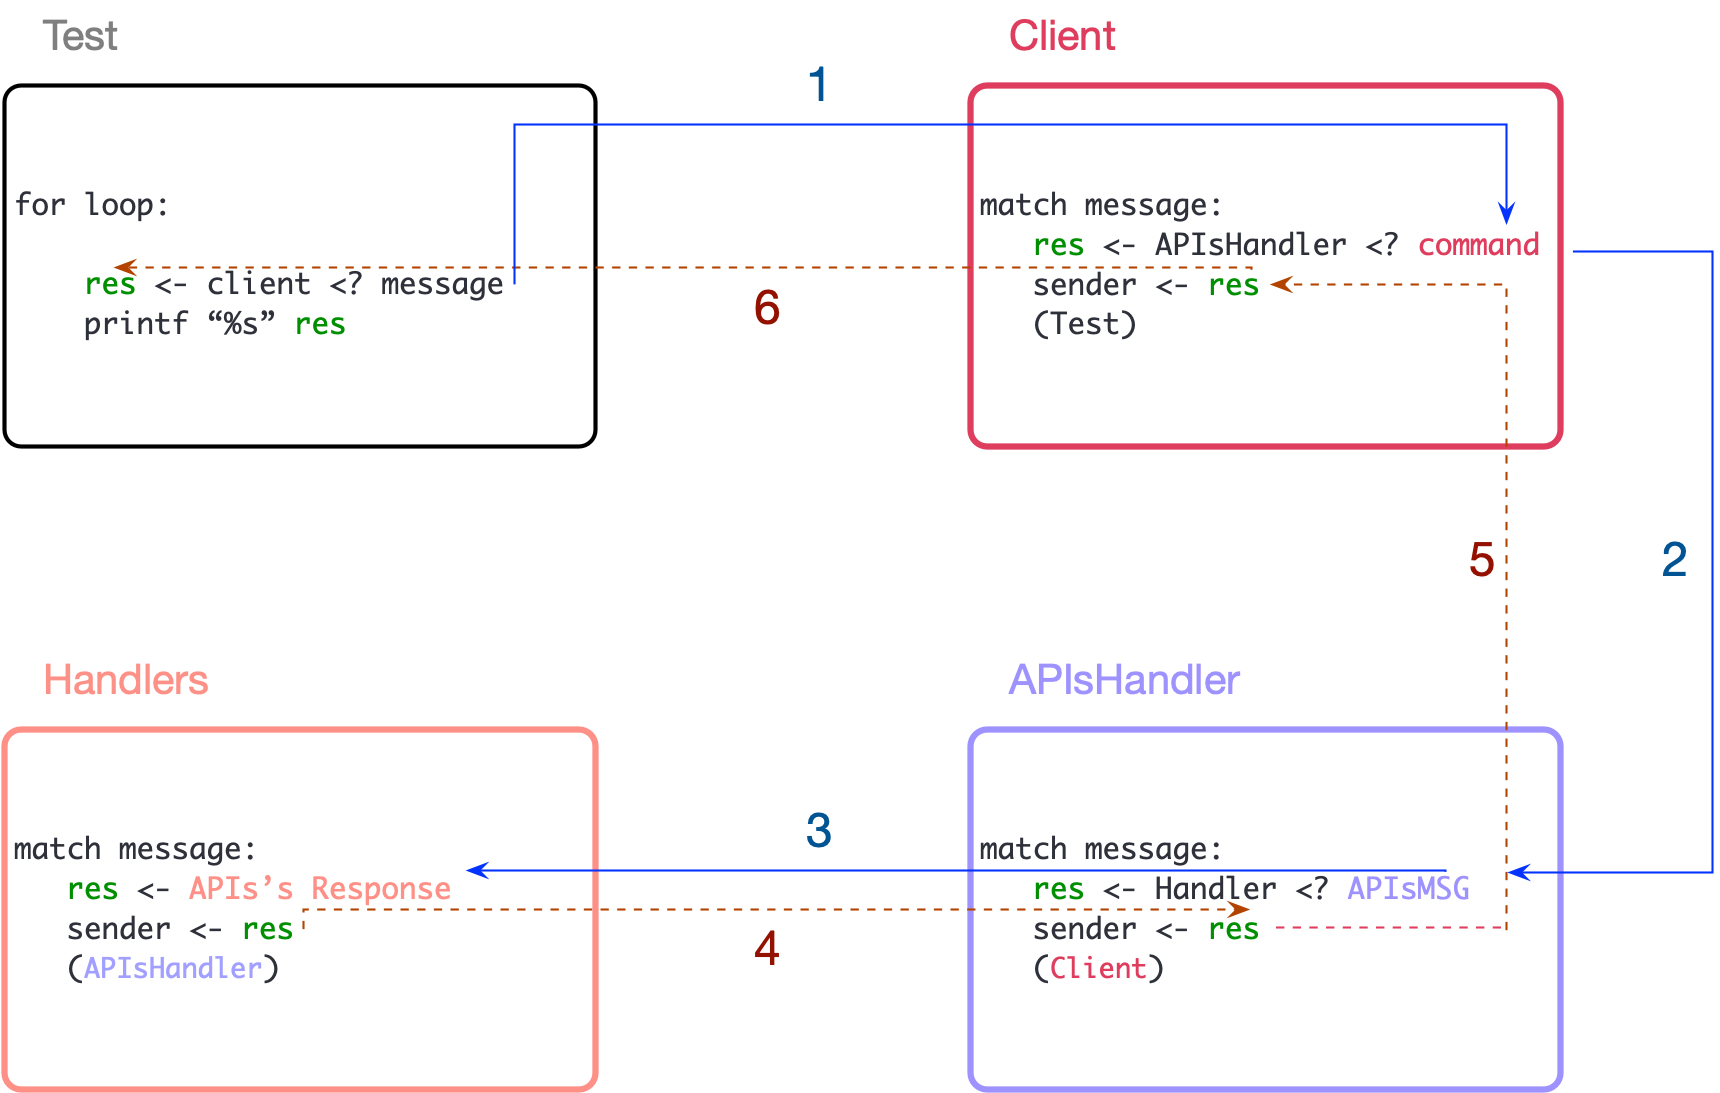
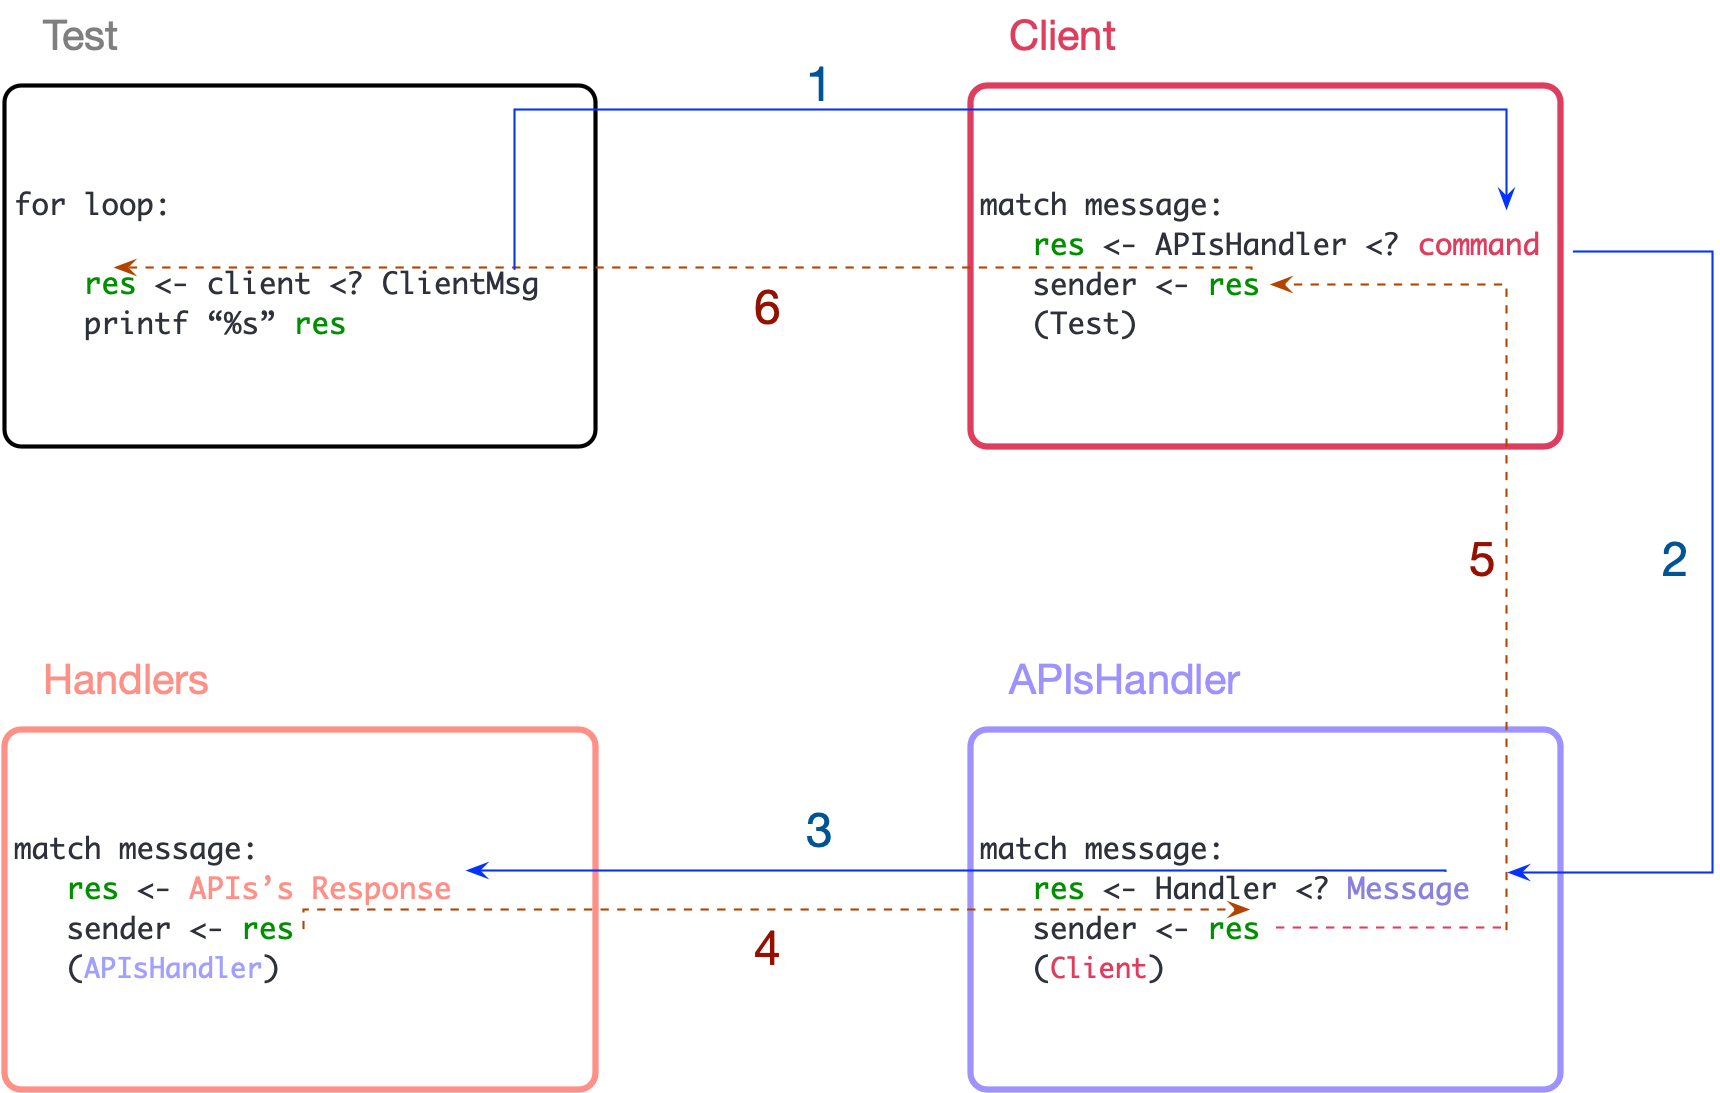
Update report

Changed region(s): [[0.3081, 0.0933, 0.8628, 0.1244], [0.7703, 0.7777, 0.8628, 0.8399], [0.2157, 0.2489, 0.3081, 0.28]]

diff --git a/Project4.1/README.md b/Project4.1/README.md
@@ -5,7 +5,7 @@ Twitter clone using F#.
 - Zhang Dong, UFID: 69633983
 - Xiaobai Li, UFID: 31567109
 
-## Functionality
+# Functionality
 
 In this project, a Twitter Enginee Clone with support to following functionality was designed:
 - Register account and Authenticatios
@@ -20,11 +20,17 @@ Also a tester/simulator to test the above was implemented with support to:
 - Simulate periods of live connection and disconnection for users
 - Simulate a Zipf distribution on the number of subscribers
 
-## Implementation
+# Implementation
 
 The infrastructure of Twitter Enginee is as following:
 
 ![](https://github.com/zdong1995/DOSP5615/blob/twitter/Project4.1/img/Infra.jpg)
+
+## Server Infrastrcuture
+
+For the server side, we use Actor as distributed microservice for different module and use a singleton `Simulator` to realize the business logic. There will be one actor `APIsHandler` as the gateway to communicate with clients, the received message will be distributed to each microservice actor `FunctionHandler` based on message type. Each `FunctionHandler` will invoke the APIs of `Simulator` and process the bussiness logic to modify the database table. Then the response will be parsed from API response to `FunctionHandler`, then `APIsHandler`, finally reached back to client.
+
+There are four class elaborately designed in server side, which are `User`, `Tweet`, `Message` and `Simulator`. Object-Oriented Design with encapsulation has been fullfilled to design the class.
 
 ### Database Management
 
@@ -35,14 +41,7 @@ To simplify the simulator, we use 4 HashTable to store the data to simulate data
 - tagtTable: `<tag, Tweet List>`
 - mentionTable: `<mentionedUser, Tweet List>`
 
-### Server Infrastrcuture
-
-For the server side, we use Actor as distributed microservice for different module and use a singleton `Simulator` to realize the business logic. There will be one actor `APIsHandler` as the gateway to communicate with clients, the received message will be distributed to each microservice actor `FunctionHandler` based on message type. Each `FunctionHandler` will invoke the APIs of `Simulator` and process the bussiness logic to modify the database table. Then the response will be parsed from API response to `FunctionHandler`, then `APIsHandler`, finally reached back to client.
-
-There are four class elaborately designed in server side, which are `User`, `Tweet`, `Message` and `Simulator`. Object-Oriented Design with encapsulation has been fullfilled to design the class.
-
 ### Class
-
 #### User
 Fields:
 - username: `string`
@@ -93,14 +92,87 @@ Remote acotrs was used to implement microservice-like handlers:
 
 The message from client to `APIsHandler` will be `string`, and the message between `Handler`s are `Message` type.
 
-## Usage
+## Client Infrastructure
 
-The command message from client should be in the following format:
+For client side, we use remote actor `Client` actor to simulate user of Twitter enginee. The client actor will be initialized as the number we defined and use for loop to simulate the function call. The Remote Procedure Call (RPC) is showed as following:
+
+![](https://github.com/zdong1995/DOSP5615/blob/master/Project4.1/img/Workflow.jpg)
+
+1. In the for loop, for one specific User with `userId`, `password` and wished operation, we will send corresponding `Client` actor a message with `ClientMsg` type to wrap the request message.
+
+2. After the `Client` actor received message, it will match message and build `command` string to send to `APIsHandler` on server side.
+
+3. After the `APIsHandler` actor received message, it will match message and build `Message` type to wrap the request body, then distribute the message to corresponding `Handler`.
+
+4. The `Handler` will decode the `Message` received and then invoke the API call of `Simulator` to manipulate the datatables. After the process is done, the API will send back the response `res` string to `Handler`, which will be sent back to the sender, `APIsHandler`.
+
+5. The `APIsHandler` will pass the response to its sender, i.e. `Client`.
+
+6. The `Client` will send back the response to the original sender, the Test code invoked place.
+
+Then we can validate the response with expected result. All RPC are handled as asynchronous communication. For the automatic query for Tweets Live View of user, we utilized the "pull" model to retrive the tweet list of all the people they followed. Once the user login, the `Client` actor will auto-query the tweet lists in defined time frequency.
+
+# Usage
+
+## APIsHandler
+
+With the encasulations, the server only provide `APIsHandler` interface to expose to communicate with `Client`. The input for `APIsHanlder` will be `string` command containing 4 `|` separator in the following format:
+
 ```
-operation|username|password|arg1|arg2
+<operation>|<username>|<password>|<arg1>|<arg2>
 ```
 
-The value of `arg1` and `arg2` will depend on the operations we want, which is showed in the following example:
+The value of `arg1` and `arg2` will depend on the operations we want. Some example of the command:
+
+- Register: `Register|user1|pw1||`
+- Login: `Login|user1|pw1||`
+- Tweet: `Tweet|user1|pw1|#dosp Twitter Clone! @user2 |`
+- ReTweet: `ReTweet|user2|pw2|#uf Go Gators! @user3 |user1`
+- Query:
+  - Query of User's Subscribing List: `Query|user1|||`
+  - Query of Specific Hashtag: `Tag|#dosp|||`
+  - Query for "Mentioned Me`: `Mention|user1|||`
+
+Multiple hashtags and mentions will automatically extracted from the tweet content. But space after the hashtag `#dosp ` and mention `@user ` will be needed to be auto-parsed.
+
+The success response for the APIs is as following:
+- Register: `<username> Registered successfully`
+- Login: `true`
+- Tweet: `Tweet success <Serialized Tweet>`
+- ReTweet: `ReTweet success <Serialized Tweet>`
+- Query: `list of <Serialized Tweet>`
+
+### Client
+
+For Client side, it is very easy to create new user client. As the remote actor is used, `Client userId` will instantiate one `Client` actor with name as `userId`. We just need sent `ClientMsg` to `Client`, the actor will process as we discussed before. The `ClientMsg` is the same type defined as `Message` type.
+
+# Test
+
+There are two ways to run the test for this simulator:
+
+- Run `Client.fsx` file to test the Cliend-Server communication with scalibility 
+- Run `Test.fsx` file to test the APIs and the correctness of the server.
+performance.
+
+## Performance Simulation Test using `Client.fsx`
+
+### How to test?
+
+To run the script, change your location to directory `Project4.1/`, using following command to test:
+
+```shell
+dotnet fsi --langversion:preview Client.fsx <Number of User>
+```
+
+The file contains stopwatch to collect the time of each operation with dependency to the scale of users.
+
+### Result
+
+## Service Logic Test using `Test.fsx`
+
+### How to test?
+
+First uncomment the `printf` line of each `Handler` in `Server.fsx`. Run `Test.fsx` as follwoing and you should receive the expected result.
 
 ```F#
 let service = system.ActorSelection(url + "APIsHandler")
@@ -110,6 +182,9 @@ service <? "Register|user1|pw1||" |> ignore
 service <? "Register|user1|pw1||" |> ignore
 service <? "Register|user2|pw2||" |> ignore
 service <? "Register|user3|pw3||" |> ignore
+// Login
+service <? "Login|user1|pw1||" |> ignore
+service <? "Login|user1|pw2||" |> ignore
 // Follow
 service <? "Follow|user1|pw1|user0|" |> ignore
 service <? "Follow|user1|pw1|user2|" |> ignore
@@ -128,31 +203,17 @@ service <? "Query|user1|||" |> Async.Ignore |> Async.RunSynchronously |> ignore
 service <? "Tag|#dosp|||" |> Async.Ignore |> Async.RunSynchronously |> ignore
 service <? "Mention|user3|||" |> Async.Ignore |> Async.RunSynchronously |> ignore
 ```
+### Result:
 
-**!!** The hashtag and mention should always have one space after it.
-
-### Test
-
-The test workflow is showed as following:
-
-![](https://github.com/zdong1995/DOSP5615/blob/master/Project4.1/img/Workflow.jpg)
-
-There are two ways to run the test for this simulator:
-
-- Run `Test.fsx` file to test the APIs and the correctness of the server.
-- Run `Client.fsx` file to test the Cliend-Server communication.
-
-### Service logic Test using `Test.fsx`
-
-Run `Test.fsx` file and you should receive the following expected result.
-
-### Service logic
+#### Response
 
 ```shell
 Register response for "user1": "user1 Registered successfully" 
 Register response for "user1": "Username has already been used. Please choose a new one." 
 Register response for "user2": "user2 Registered successfully" 
 Register response for "user3": "user3 Registered successfully" 
+Login response for "user1": true 
+Login response for "user1": false 
 Follow response for "user1": "User not existed. Please check the user information" 
 Follow response for "user1": "user1 successfully followed user2" 
 Follow response for "user1": "user1 successfully followed user3" 
